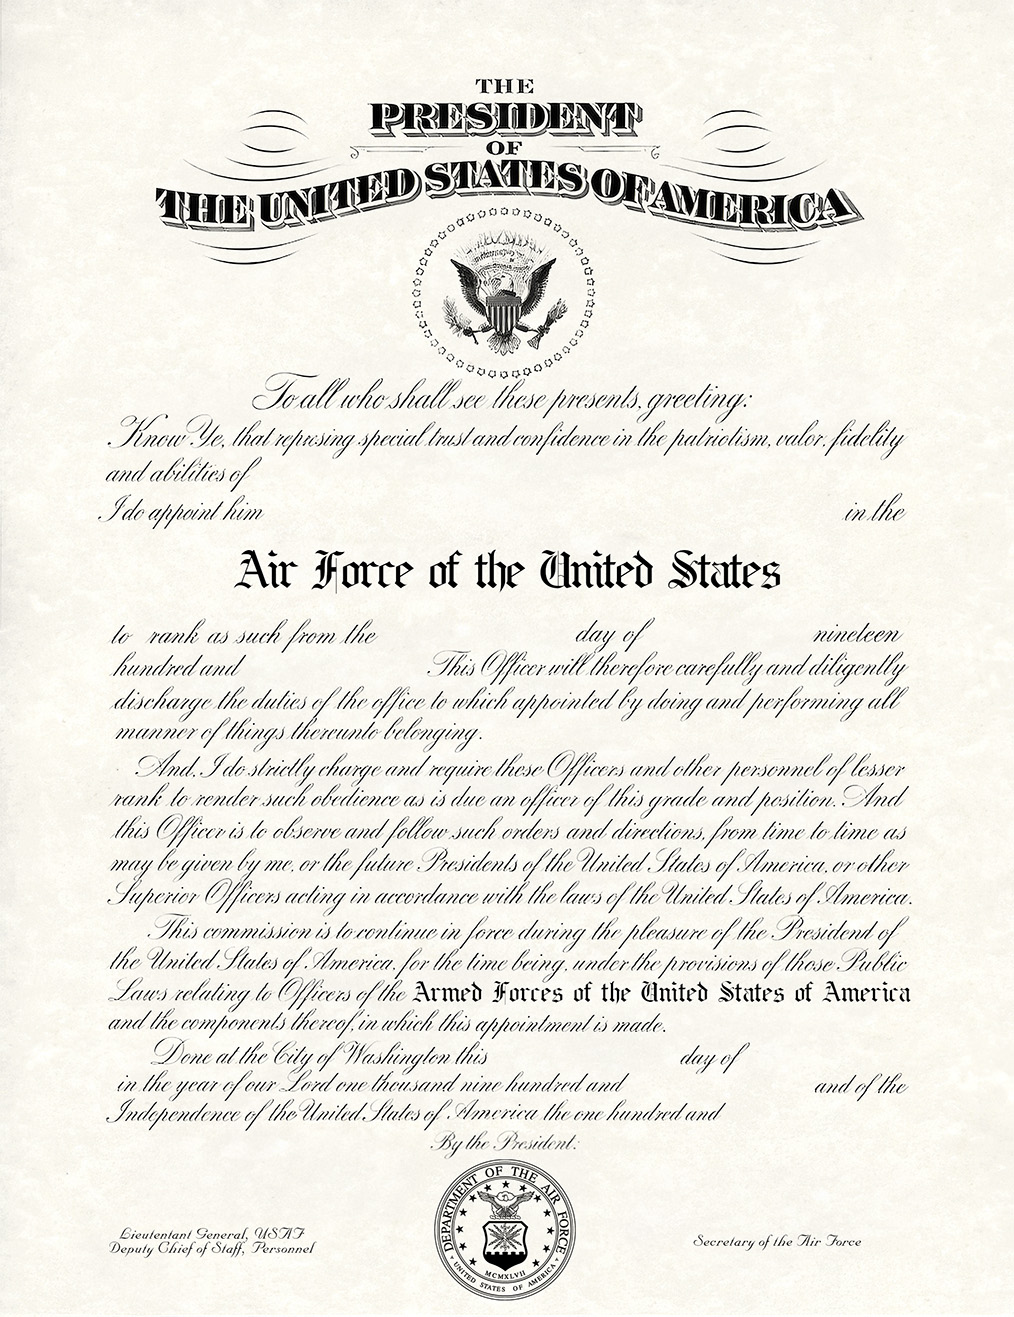
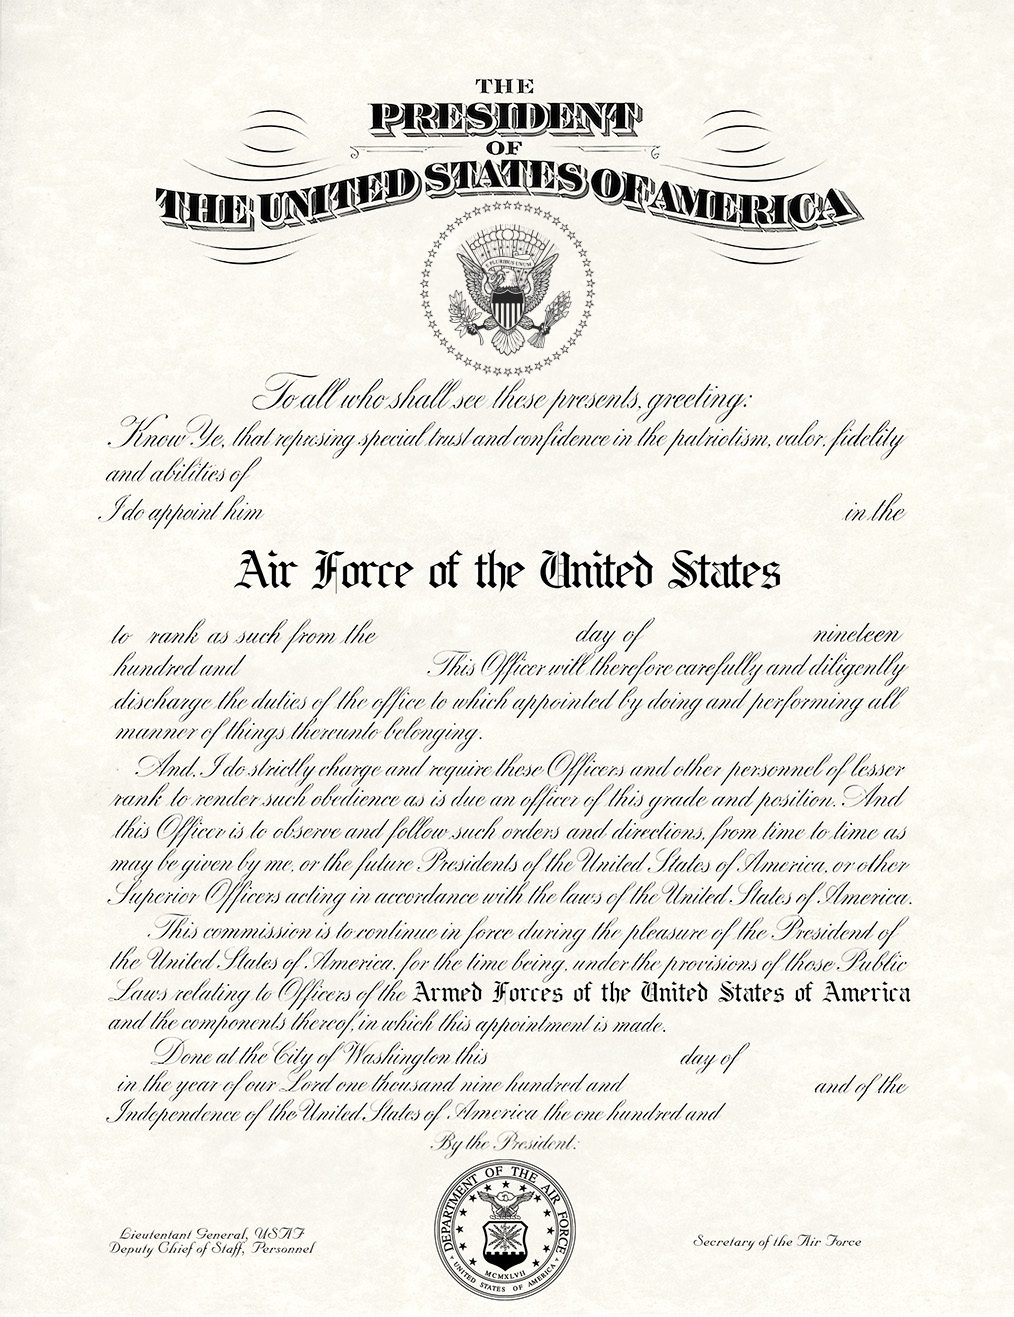
Navy DSM certificate, Navy and Marine commissions, U.S. personnel file
Begun by Codex, finished here. The Navy Distinguished Service Medal gets
the Department of the Navy's own form (Navy_dsm.png): its wording, the
deed in a plain sans under the name, the day typed under "Given under my
hand", signed by the Secretary of the Navy in office.

Navy and Marine pilots get the U.S. personnel file with their own
department and service lines, and a commission on the Navy or Marine
Corps template, signed by the Secretary of the Navy. Those forms print
the service after the grade, so the grade stands alone there. The USAF
template's presidential seal matches the new pair.

Changed region(s): [[0.3974, 0.1557, 0.5809, 0.3113]]

diff --git a/korea_service_record/static/js/personnel.js b/korea_service_record/static/js/personnel.js
@@ -1,5 +1,5 @@
 /*
- * A USAF pilot's personnel file, one printable document (/personnel?career=&pilot=):
+ * A U.S. pilot's personnel file, one printable document (/personnel?career=&pilot=):
  *
  *   1  cover sheet                 drawn here
  *   2  service record              drawn here
@@ -71,7 +71,7 @@
             fetch("/api/logbook/" + enc(careerId) + "/" + enc(pilotId)),
         ]);
         if (!a.ok) {
-            // Not a USAF pilot: a Chinese, Soviet or North Korean one has a file of his own.
+            // Not a U.S. pilot: a Chinese, Soviet or North Korean one has a file of his own.
             for (const [api, render] of [["prc-file", window.renderPrcFile], ["ussr-file", window.renderUssrFile],
                                          ["dprk-file", window.renderDprkFile]]) {
                 if (a.status !== 404) break;
@@ -90,6 +90,13 @@
         return;
     }
     const p = data.pilot;
+    const branch = ({
+        601: {department: "DEPARTMENT OF THE AIR FORCE", service: "UNITED STATES AIR FORCE"},
+        602: {department: "DEPARTMENT OF THE NAVY", service: "UNITED STATES NAVY"},
+        603: {department: "DEPARTMENT OF THE NAVY", service: "UNITED STATES MARINE CORPS"},
+    })[p.country] || {};
+    const formText = (key) => branch[key] ||
+        (key === "part_logbook" && p.country !== 601 ? "Individual flight records" : TF("personnel.form." + key));
     document.documentElement.lang = "en";
     document.title = TF("personnel.form.title") + " — " + p.name;
 
@@ -101,8 +108,8 @@
     };
     const field = (key, value) => '<div class="pf-field"><span class="k">' + esc(TF("personnel.form." + key)) +
         '</span><span class="v">' + esc(value) + "</span></div>";
-    const head = (title) => '<div class="pf-form-head"><div class="dept">' + esc(TF("personnel.form.department")) +
-        '</div><div class="title">' + esc(title) + '</div><div class="sub">' + esc(TF("personnel.form.service")) + "</div></div>" +
+    const head = (title) => '<div class="pf-form-head"><div class="dept">' + esc(formText("department")) +
+        '</div><div class="title">' + esc(title) + '</div><div class="sub">' + esc(formText("service")) + "</div></div>" +
         '<hr class="pf-rule">';
     const foot = (n) => '<div class="pf-foot"><span>' + esc(p.name) + " · " + esc(data.squadron) + "</span><span>" +
         esc(TF("personnel.form.page", {n: n})) + "</span></div>";
@@ -238,7 +245,7 @@
     const many = {promotions: counted.promotions, awards: counted.awards,
                   logbook: document.querySelectorAll(".pf-half").length};
     el("pf-contents").innerHTML = order.filter((x) => x !== "cover").map((x, i) =>
-        '<tr><td class="num">' + (i + 1) + ".</td><td>" + esc(TF("personnel.form.part_" + x)) +
+        '<tr><td class="num">' + (i + 1) + ".</td><td>" + esc(formText("part_" + x)) +
         (x in many ? " (" + many[x] + ")" : "") + "</td></tr>").join("");
     status();
 })();

diff --git a/korea_service_record/static/css/certificate.css b/korea_service_record/static/css/certificate.css
@@ -161,6 +161,45 @@ body.embed .sheet.portrait .ct-text, body.embed .sheet.portrait .ct-signature { 
 }
 .sheet.navy_commendation .ct-name { font-size: 2.35em; }
 
+/* Navy Distinguished Service Medal: the supplied form follows the compact
+   Department of the Navy example. Its medal fills the upper third; the seal
+   is printed at the foot, between the date block and Secretary's signature. */
+.sheet.navy_dsm .ct-text {
+    top: 38.5%; bottom: 18%; left: 8%; right: 8%; gap: 0.08em;
+}
+.sheet.navy_dsm .ct-country {
+    font-size: 2.25em; letter-spacing: 0.035em; line-height: 1.05;
+}
+.sheet.navy_dsm .ct-pre {
+    font-size: 0.82em; max-width: 92%; line-height: 1.15; letter-spacing: 0.025em;
+}
+.sheet.navy_dsm .ct-name {
+    font-size: 2.25em; line-height: 1.05; margin-top: 0.82em; letter-spacing: 0.035em;
+}
+.sheet.navy_dsm .ct-to { font-size: 1.15em; margin-top: 0.48em; }
+.sheet.navy_dsm .ct-recipient {
+    font-size: 1.35em; font-weight: bold; margin-top: 0.6em; letter-spacing: 0.055em;
+}
+.sheet.navy_dsm .ct-service, .sheet.navy_dsm .ct-deed { display: none; }
+/* As the Department of the Navy's own form: the deed in a plain sans,
+   right under the name; the day of the award typed below the printed
+   "Given under my hand" line. */
+.sheet.navy_dsm .ct-for {
+    max-width: 86%; margin: 0.75em auto 0; font-size: 1.12em; line-height: 1.35;
+    text-align: left; font-family: Arial, Helvetica, sans-serif; letter-spacing: 0.01em;
+}
+.sheet.navy_dsm .ct-given + .ct-given {
+    font-family: 'Courier New', Courier, monospace; font-weight: bold; margin-top: 0.3em;
+}
+.sheet.navy_dsm .ct-given-block {
+    position: absolute; left: -3%; bottom: -30%; width: 42%; margin: 0; text-align: left;
+}
+.sheet.navy_dsm .ct-given {
+    font-size: 0.9em; line-height: 1.35; letter-spacing: 0.025em;
+}
+.sheet.navy_dsm .ct-signature.right { right: 5%; bottom: 4.5%; width: 29%; }
+.sheet.navy_dsm .ct-signature .ct-sign-title { font-size: 0.72em; }
+
 /* Republic of Korea Presidential Unit Citation: the form's sans faces; the
    text block runs 15-86% of the width, between the ribbons. */
 .sheet.portrait.rok_puc .ct-text > * { left: 15%; right: 14%; }

diff --git a/korea_service_record/static/js/app.js b/korea_service_record/static/js/app.js
@@ -1714,10 +1714,10 @@
                 (d.player && d.player.id != null ? "&pilot=" + encodeURIComponent(d.player.id) : "");
             logbook.title = T("logbook.open_hint");
             logbook.hidden = false;
-            // The personnel file: USAF, Chinese, Soviet and North Korean pilots
-            // (the Navy and Marines have no file yet).
+            // The personnel file: all six air services. The three U.S.
+            // branches share the U.S. file; the others have their own forms.
             const personnel = el("d-personnel");
-            if (d.player && [601, 502, 501, 503].indexOf(d.player.country) >= 0 && d.player.id != null) {
+            if (d.player && [601, 602, 603, 502, 501, 503].indexOf(d.player.country) >= 0 && d.player.id != null) {
                 personnel.href = "/personnel?career=" + encodeURIComponent(careerId) +
                     "&pilot=" + encodeURIComponent(d.player.id);
                 personnel.title = T("personnel.open_hint");

diff --git a/korea_service_record/promotion_cert.py b/korea_service_record/promotion_cert.py
@@ -1,8 +1,8 @@
 """
-The USAF promotion certificate: the owner's template filled in by hand.
+The U.S. promotion certificate: the owner's branch template filled in by hand.
 
-Template ``static/images/certificates/USAF_promotion_cert_template.jpg``
-(1014 x 1317 px at 100 ppi) is the owner's. Every field is set with Photoshop
+The USAF, Navy and Marine Corps templates in ``static/images/certificates``
+(1014 x 1317 px at 100 ppi) are the owner's. Every field is set with Photoshop
 tracking 65 (65/1000 em), centred on the owner's coordinates - the centre of
 the text's ink, so a field grows equally to the left and the right.
 
@@ -26,7 +26,17 @@ from pathlib import Path
 from typing import Dict, Optional, Tuple
 
 STATIC = Path(__file__).resolve().parent / "static" / "images"
-TEMPLATE = STATIC / "certificates" / "USAF_promotion_cert_template.jpg"
+TEMPLATES = {
+    601: STATIC / "certificates" / "USAF_promotion_cert_template.jpg",
+    602: STATIC / "certificates" / "USNavy_promotion_cert_template.jpg",
+    603: STATIC / "certificates" / "USMC_promotion_cert_template.jpg",
+}
+TEMPLATE = TEMPLATES[601]                 # compatibility for existing callers/tests
+SERVICES = {
+    601: "United States Air Force",
+    602: "United States Navy",
+    603: "United States Marine Corps",
+}
 FALLBACK_FONT = STATIC / "certificates" / "UnifrakturMaguntia-Book.ttf"
 OWNER_FONT = "BeneScriptine Regular.ttf"
 SIGNATURES = STATIC / "signatures"
@@ -111,7 +121,8 @@ def independence_year(year: int, month: int, day: int) -> int:
 
 
 def fields_for(name: str, rank: str, date: Tuple[int, int, int],
-               done: Optional[Tuple[int, int, int]] = None) -> Dict[str, str]:
+               done: Optional[Tuple[int, int, int]] = None,
+               country: int = 601) -> Dict[str, str]:
     """
     The written-out text of every field. ``date`` is the commission (rank
     from), ``done`` the day it was signed - a few days later
@@ -125,7 +136,9 @@ def fields_for(name: str, rank: str, date: Tuple[int, int, int],
     dy, dm, dd = done or signing_date(name, date)
     return {
         "name": name,
-        "rank": f"{rank}, United States Air Force",
+        # The Navy and Marine forms print the service right after the field
+        # ("... in the United States Navy"), so the grade stands alone there.
+        "rank": rank if country in (602, 603) else f"{rank}, {SERVICES[601]}",
         "rank_day": ordinal(d),
         "rank_month": MONTHS[m - 1],
         "rank_year": words(y - 1900),
@@ -210,13 +223,12 @@ def _signature(image, file: Path, slot: Dict[str, int]) -> None:
     image.paste(sig, (round(slot["centre_x"] - sig.width / 2), slot["bottom"] - sig.height), sig)
 
 
-def signers(date: Tuple[int, int, int]) -> Tuple[Optional[str], Optional[str]]:
+def signers(date: Tuple[int, int, int], country: int = 601) -> Tuple[Optional[str], Optional[str]]:
     """
-    The signature stems for a commission signed on ``date``: the Deputy Chief
-    of Staff, Personnel (left) and the Secretary of the Air Force (right) in
-    office that day, from the signer table the award certificates use
-    (locales/citations/eng.json, certificate.signers). The Edwards -> Kuter
-    hand-over in mid-1951 is approximate.
+    The signature stems for a commission signed on ``date``. Air Force forms
+    carry the Deputy Chief of Staff, Personnel (left) and Secretary of the Air
+    Force (right); Navy and Marine Corps forms carry the Secretary of the Navy
+    on the right. Names come from the award-certificate signer table.
     """
     import json
     table = json.loads((Path(__file__).resolve().parent / "locales" / "citations" /
@@ -227,23 +239,26 @@ def signers(date: Tuple[int, int, int]) -> Tuple[Optional[str], Optional[str]]:
         rows = table.get(office) or []
         row = next((r for r in rows if day <= r[0]), rows[-1] if rows else None)
         return row[3] if row and len(row) > 3 else None
+    if country in (602, 603):
+        return None, pick("navy_secretary")
     return pick("personnel"), pick("secretary")
 
 
 def render(name: str, rank: str, date: Tuple[int, int, int],
            left_signature: Optional[str] = None, right_signature: Optional[str] = None,
-           done: Optional[Tuple[int, int, int]] = None) -> bytes:
+           done: Optional[Tuple[int, int, int]] = None,
+           country: int = 601) -> bytes:
     """The filled-in certificate as JPEG bytes. Signatures are file stems in
     static/images/signatures, by default the men in office on the signing
     date; a missing image leaves its line empty."""
     from PIL import Image
     signed = done or signing_date(name, date)
     if left_signature is None and right_signature is None:
-        left_signature, right_signature = signers(signed)
-    with Image.open(TEMPLATE) as template:
+        left_signature, right_signature = signers(signed, country)
+    with Image.open(TEMPLATES.get(country, TEMPLATE)) as template:
         image = template.convert("RGB")
     substitutions = font_choice()[2]
-    for key, text in fields_for(name, rank, date, signed).items():
+    for key, text in fields_for(name, rank, date, signed, country).items():
         for plain, glyph in substitutions.items():
             text = text.replace(plain, glyph)
         _draw_centred(image, text, FIELDS[key], _fitting(text, MAX_WIDTH.get(key)))

diff --git a/korea_service_record/app.py b/korea_service_record/app.py
@@ -194,16 +194,17 @@ def create_app(game_dir: Optional[Path] = None) -> Flask:
     def api_personnel(career_id: str, pilot_id: int):
         """
         Everything the personnel file shows that the existing pages do not
-        draw themselves, in English - the language of a USAF file, whatever
-        the reader's. USAF pilots only, for now.
+        draw themselves, in English - the language of a U.S. service file,
+        whatever the reader's. Air Force, Navy and Marine Corps pilots use
+        this common file; the other nations have their own document sets.
         """
         agg = aggregator_for("en")
         detail = agg.career_detail(career_id, pilot_id)
         if detail is None:
             return jsonify({"error": "career_not_found"}), 404
         player = detail.get("player") or {}
-        if player.get("country") != 601:
-            return jsonify({"error": "not_usaf"}), 404
+        if player.get("country") not in (601, 602, 603):
+            return jsonify({"error": "not_us_service"}), 404
         # One entry per decoration ladder: the rung he holds gets its
         # certificate, the rungs before it are listed in the service record
         # with the citation each came with - six Air Medal sheets would say
@@ -245,9 +246,10 @@ def create_app(game_dir: Optional[Path] = None) -> Flask:
     @app.route("/api/promotion-certificate/<path:career_id>/<int:pilot_id>/<int:rank_id>")
     def api_promotion_certificate(career_id: str, pilot_id: int, rank_id: int):
         """
-        The USAF commission for one promotion, filled in on the owner's
-        template (promotion_cert.py). An English document whatever the
-        reader's language, so the rank is the game's English name.
+        The U.S. commission for one promotion, filled in on the owner's Air
+        Force, Navy or Marine Corps template (promotion_cert.py). An English
+        document whatever the reader's language, so the rank is the game's
+        English name.
         """
         from . import promotion_cert
         agg = aggregator_for("en")
@@ -255,8 +257,9 @@ def create_app(game_dir: Optional[Path] = None) -> Flask:
         if detail is None:
             return jsonify({"error": "career_not_found"}), 404
         player = detail.get("player") or {}
-        if player.get("country") != 601:
-            return jsonify({"error": "not_usaf"}), 404
+        country = int(player.get("country") or 0)
+        if country not in (601, 602, 603):
+            return jsonify({"error": "not_us_service"}), 404
         promo = next((p for p in detail.get("promotions") or []
                       if p.get("rank_id") == rank_id and not p.get("pending")), None)
         if promo is None:
@@ -265,7 +268,8 @@ def create_app(game_dir: Optional[Path] = None) -> Flask:
             y, m, d = (int(x) for x in str(promo["date"])[:10].split("."))
         except (TypeError, ValueError):
             return jsonify({"error": "bad_date"}), 404
-        data = promotion_cert.render(player.get("name") or "", promo["rank"], (y, m, d))
+        data = promotion_cert.render(
+            player.get("name") or "", promo["rank"], (y, m, d), country=country)
         return Response(data, mimetype="image/jpeg", headers={"Cache-Control": "no-cache"})
 
     @app.route("/api/prc-file/<path:career_id>/<int:pilot_id>")

diff --git a/tests/test_promotion_cert.py b/tests/test_promotion_cert.py
@@ -1,3 +1,5 @@
+import pytest
+
 from korea_service_record import promotion_cert as pc
 
 
@@ -23,6 +25,17 @@ def test_fields_of_a_commission():
     }
 
 
+def test_navy_and_marine_commissions_name_the_correct_service():
+    navy = pc.fields_for(
+        "Edward Meyer", "Lieutenant Commander", (1951, 6, 20),
+        (1951, 6, 23), country=602)
+    marine = pc.fields_for(
+        "John Smith", "Major", (1951, 6, 20),
+        (1951, 6, 23), country=603)
+    assert navy["rank"] == "Lieutenant Commander"
+    assert marine["rank"] == "Major"
+
+
 def test_signed_a_few_days_later_and_always_the_same_day():
     signed = pc.signing_date("Alex Bleiholder", (1951, 6, 20))
     assert signed == pc.signing_date("Alex Bleiholder", (1951, 6, 20))
@@ -33,10 +46,19 @@ def test_signers_are_the_men_in_office_that_day():
     assert pc.signers((1951, 6, 23)) == ("edwards", "finletter")
     assert pc.signers((1951, 11, 6)) == ("kuter", "finletter")
     assert pc.signers((1953, 3, 1)) == ("kuter", "talbott")
+    assert pc.signers((1951, 6, 23), 602) == (None, "matthews")
+    assert pc.signers((1952, 1, 1), 603) == (None, "kimball")
 
 
 def test_a_certificate_renders():
     data = pc.render("Alex Bleiholder", "Brigadier General", (1952, 10, 3))
+    assert data[:2] == b"\xff\xd8" and len(data) > 100_000
+
+
+@pytest.mark.parametrize("country", [602, 603])
+def test_navy_and_marine_certificates_render(country):
+    data = pc.render(
+        "Edward Meyer", "Lieutenant Commander", (1952, 1, 3), country=country)
     assert data[:2] == b"\xff\xd8" and len(data) > 100_000
 
 

diff --git a/tests/test_navy_dsm_certificate.py b/tests/test_navy_dsm_certificate.py
@@ -1,0 +1,34 @@
+from korea_service_record import citations
+
+
+def test_navy_dsm_uses_the_supplied_department_of_the_navy_form():
+    facts = {
+        "country": 602,
+        "rank": "Lieutenant Commander",
+        "name": "Edward G. Meyer III",
+        "unit": "Carrier Air Wing 11",
+        "earned_raw": "1951.04.18",
+    }
+    certificate = citations.certificate(
+        "en", 602031, facts, "1951.04.18", [])
+
+    assert certificate["template"] == "Navy_dsm"
+    assert certificate["header"] == "DEPARTMENT OF THE NAVY"
+    assert certificate["pre"] == [
+        "TO ALL WHO SHALL SEE THESE PRESENTS, GREETINGS, THIS IS TO CERTIFY THAT",
+        "THE SECRETARY OF THE NAVY HAS ON THIS DAY AWARDED THE",
+    ]
+    assert certificate["title"] == "DISTINGUISHED SERVICE MEDAL"
+    assert certificate["to"] == "TO"
+    assert certificate["name"] == "LIEUTENANT COMMANDER EDWARD G. MEYER III"
+    assert certificate["service"] == ""
+    assert certificate["reason"] == (
+        "FOR DISTINGUISHED AND EXCEPTIONAL SERVICE TO THE UNITED STATES OF "
+        "AMERICA WHILE SERVING AS COMMANDING OFFICER OF THE CARRIER AIR WING 11 "
+        "DURING COMBAT OPERATIONS IN KOREA."
+    )
+    assert certificate["given"] == [
+        "GIVEN UNDER MY HAND IN THE CITY OF WASHINGTON, DC",
+        "THIS 18TH DAY OF APRIL 1951",
+    ]
+    assert certificate["signer"] == "Francis P. Matthews"

diff --git a/tests/test_personnel.py b/tests/test_personnel.py
@@ -58,11 +58,21 @@ def test_one_entry_per_ladder_with_its_earlier_rungs(client):
     assert [p["rank_id"] for p in d["promotions"]] == [4]          # pending left out
 
 
-def test_the_file_is_for_usaf_pilots_only(client):
+def test_the_us_file_rejects_non_us_pilots(client):
     c, agg = client
     agg.country = 501
     assert c.get("/api/personnel/career/20").status_code == 404
     assert c.get("/api/promotion-certificate/career/20/4").status_code == 404
+
+
+@pytest.mark.parametrize("country", [602, 603])
+def test_navy_and_marine_files_use_the_us_document_path(client, country):
+    c, agg = client
+    agg.country = country
+    assert c.get("/api/personnel/career/20").status_code == 200
+    certificate = c.get("/api/promotion-certificate/career/20/4")
+    assert certificate.status_code == 200
+    assert certificate.mimetype == "image/jpeg"
 
 
 def test_a_promotion_certificate_is_a_picture(client):

diff --git a/korea_service_record/citations.py b/korea_service_record/citations.py
@@ -203,6 +203,7 @@ _NAVAL_TEMPLATE = {
     "nmc_medal": "Navy_MC_medal",
     "moh": "Navy_MoH",
     "navy_cross": "Navy_Cross",
+    "navy_dsm": "Navy_dsm",
     "navy_commendation": "Navy_commendation",
     "navy_puc": "Navy_puc",
     "navy_unit_commendation": "Navy_unit_commendation",
